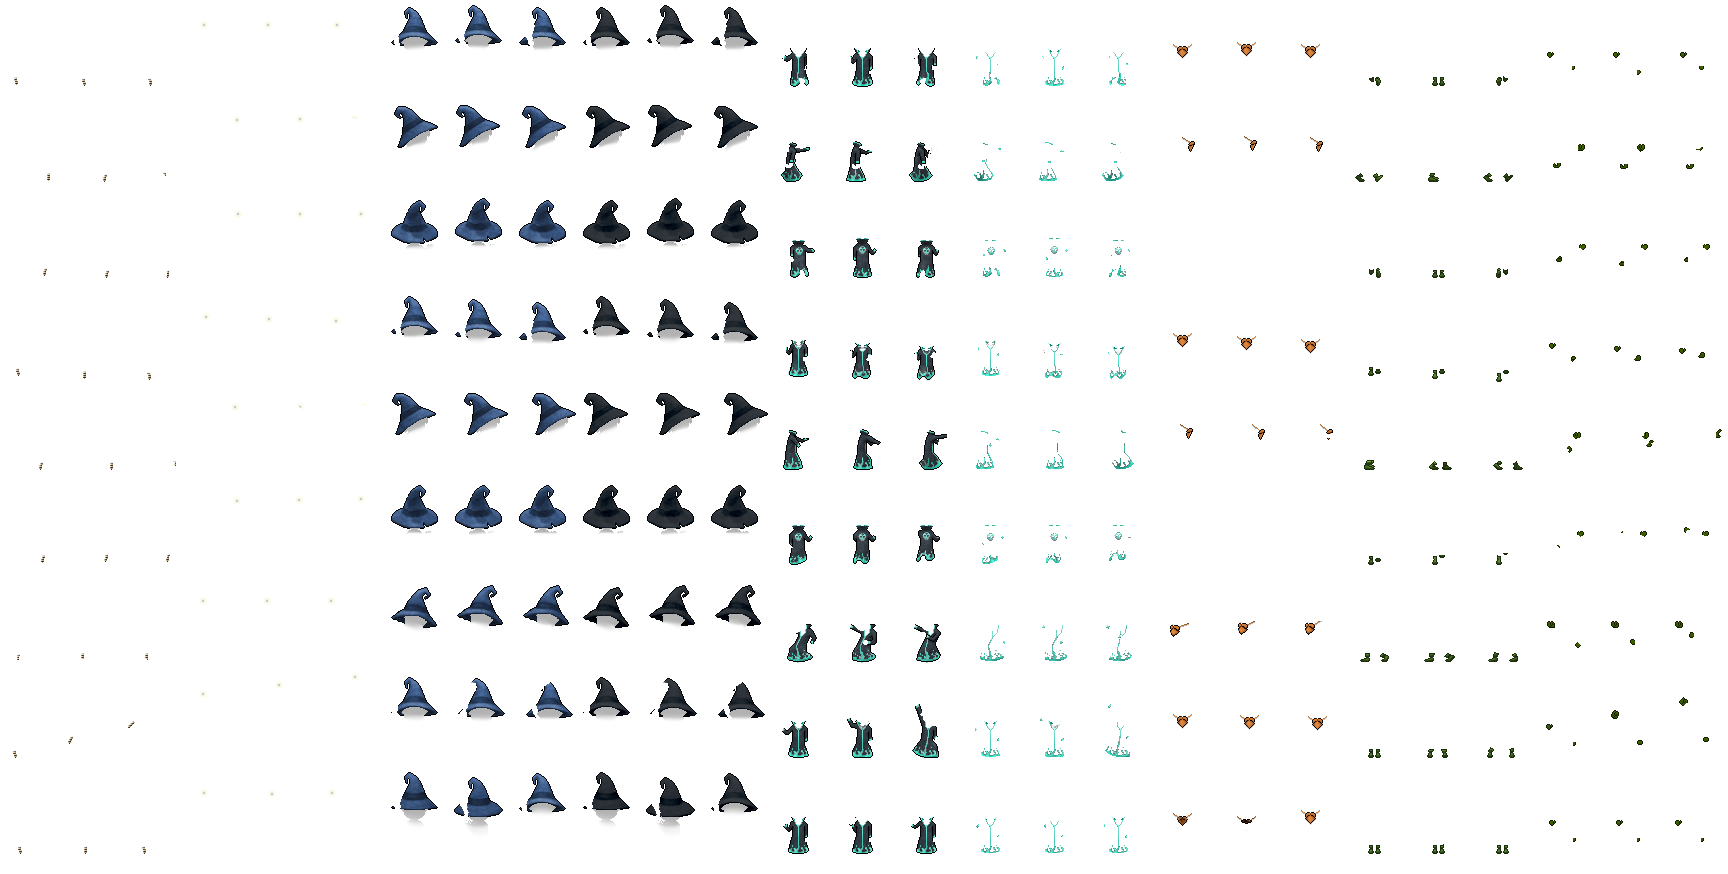
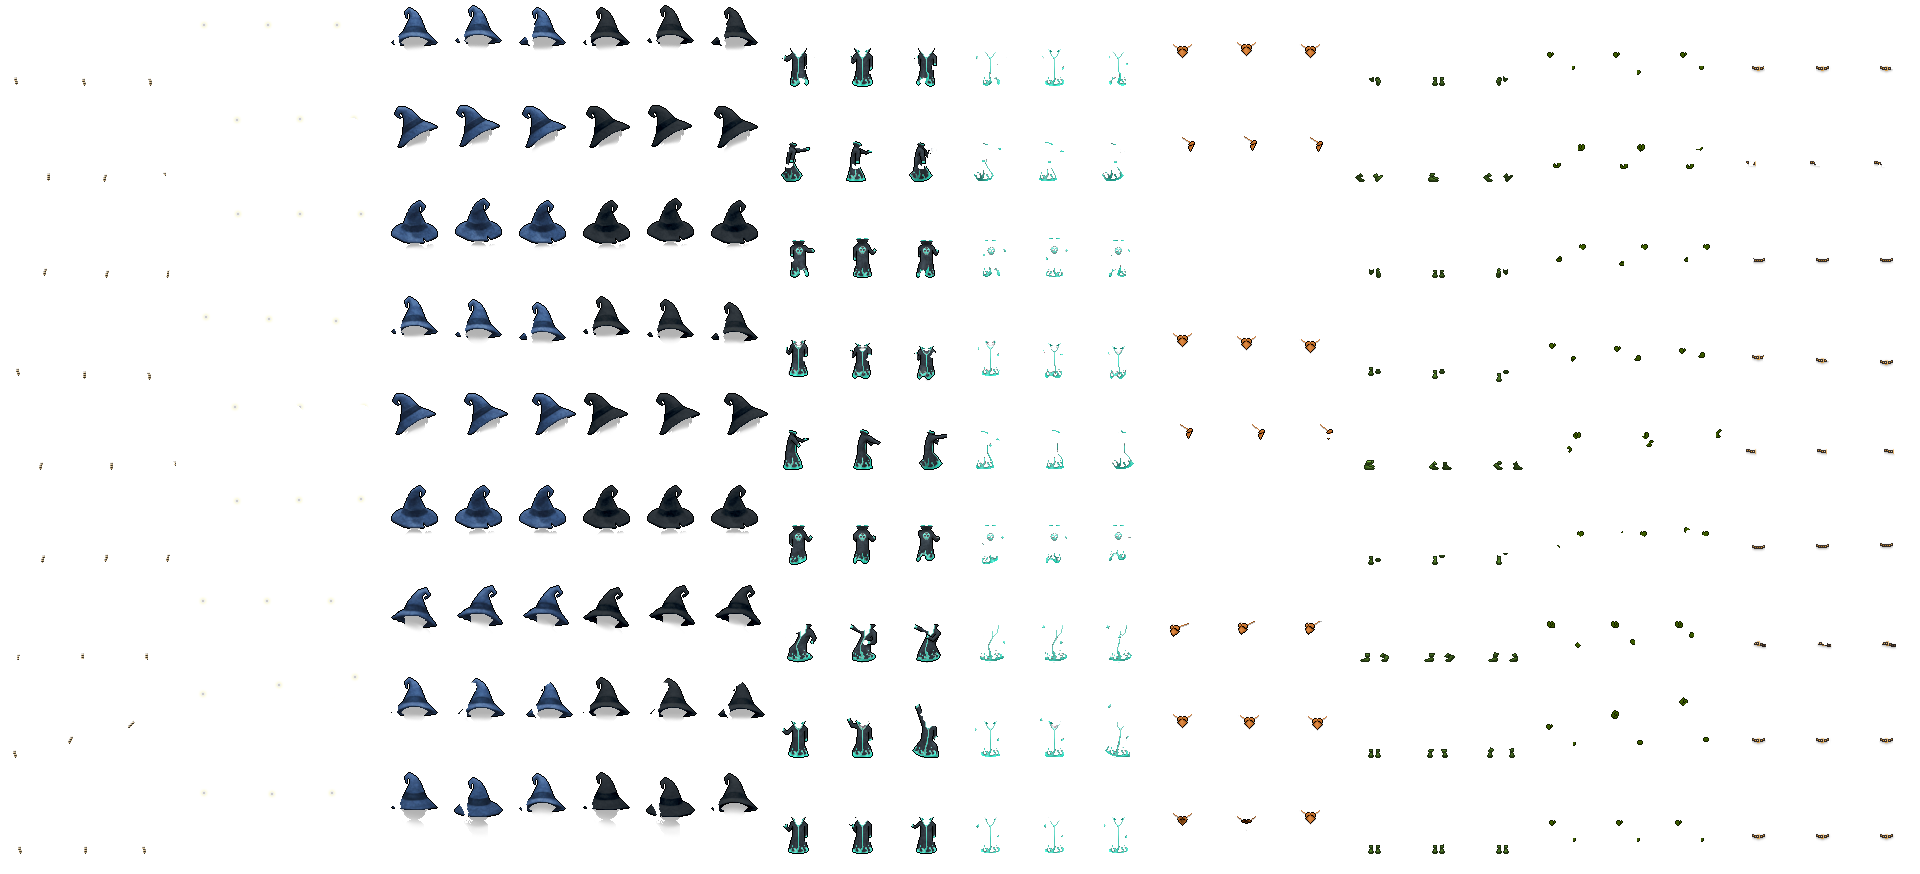
ADD 2 new items (upgrades)

diff --git a/src/PlayerEntity.cpp b/src/PlayerEntity.cpp
@@ -848,7 +848,17 @@ void PlayerEntity::renderPlayer(sf::RenderTarget* app)
     app->draw(sprite);
   }
 
-  if (equip[EQUIP_LEATHER_BELT])
+  if (equip[EQUIP_BELT_ADVANCED] && playerStatus != playerStatusDead)
+  {
+    sprite.setTexture(*ImageManager::getInstance().getImage(IMAGE_PLAYER_1));
+    if (isMirroring)
+      sprite.setTextureRect(sf::IntRect( (27 + frame) * width + width, spriteDy * height, -width, height));
+    else
+      sprite.setTextureRect(sf::IntRect( (27 + frame) * width, spriteDy * height, width, height));
+    app->draw(sprite);
+    sprite.setTexture(*ImageManager::getInstance().getImage(IMAGE_PLAYER_0));
+  }
+  else if (equip[EQUIP_LEATHER_BELT])
   {
     if (isMirroring)
       sprite.setTextureRect(sf::IntRect( (15 + frame) * width + width, spriteDy * height, -width, height));
@@ -874,7 +884,17 @@ void PlayerEntity::renderPlayer(sf::RenderTarget* app)
     app->draw(sprite);
   }
 
-  if (equip[EQUIP_REAR_SHOT])
+  if (equip[EQUIP_REAR_SHOT_ADVANCED])
+  {
+    sprite.setTexture(*ImageManager::getInstance().getImage(IMAGE_PLAYER_2));
+    if (isMirroring)
+      sprite.setTextureRect(sf::IntRect( (frame) * width + width, spriteDy * height, -width, height));
+    else
+      sprite.setTextureRect(sf::IntRect( (frame) * width, spriteDy * height, width, height));
+    app->draw(sprite);
+    sprite.setTexture(*ImageManager::getInstance().getImage(IMAGE_PLAYER_0));
+  }
+  else if (equip[EQUIP_REAR_SHOT])
   {
     sprite.setTexture(*ImageManager::getInstance().getImage(IMAGE_PLAYER_1));
     if (isMirroring)
@@ -1777,7 +1797,39 @@ void PlayerEntity::fire(int direction)
       }
     }
 
-    if (equip[EQUIP_REAR_SHOT])
+    if (equip[EQUIP_REAR_SHOT_ADVANCED])
+    {
+      float shootAngle = 0.165f;
+      float boltVelocity = fireVelocity * 0.75f;
+
+      BoltEntity* bolt1 = new BoltEntity(x, getBolPositionY(), boltLifeTime, ShotTypeStandard, 0);
+      bolt1->setDamages(fireDamages / 2);
+      bolt1->setFlying(isFairyTransmuted);
+      BoltEntity* bolt2 = new BoltEntity(x, getBolPositionY(), boltLifeTime, ShotTypeStandard, 0);
+      bolt2->setDamages(fireDamages / 2);
+      bolt2->setFlying(isFairyTransmuted);
+
+      switch (direction)
+      {
+      case 4:
+        bolt1->setVelocity(Vector2D(boltVelocity * cos(shootAngle), boltVelocity * sin(shootAngle)));
+        bolt2->setVelocity(Vector2D(boltVelocity * cos(shootAngle), -boltVelocity * sin(shootAngle)));
+        break;
+      case 6:
+        bolt1->setVelocity(Vector2D(-boltVelocity * cos(shootAngle), boltVelocity * sin(shootAngle)));
+        bolt2->setVelocity(Vector2D(-boltVelocity * cos(shootAngle), -boltVelocity * sin(shootAngle)));
+        break;
+      case 2:
+        bolt1->setVelocity(Vector2D(boltVelocity * sin(shootAngle), -boltVelocity * cos(shootAngle)));
+        bolt2->setVelocity(Vector2D(-boltVelocity * sin(shootAngle), -boltVelocity * cos(shootAngle)));
+        break;
+      case 8:
+        bolt1->setVelocity(Vector2D(boltVelocity * sin(shootAngle), boltVelocity * cos(shootAngle)));
+        bolt2->setVelocity(Vector2D(-boltVelocity * sin(shootAngle), boltVelocity * cos(shootAngle)));
+        break;
+      }
+    }
+    else if (equip[EQUIP_REAR_SHOT])
     {
       BoltEntity* bolt = new BoltEntity(x, getBolPositionY(), boltLifeTime, ShotTypeStandard, 0);
       bolt->setDamages(fireDamages / 2);
@@ -2283,8 +2335,11 @@ void PlayerEntity::computePlayer()
 
   for (int i = 0; i < NB_RESISTANCES; i++) resistance[i] = ResistanceStandard;
 
+  // gloves
   if (equip[EQUIP_GLOVES_ADVANCED]) fireDelayBonus -= 0.15f;
   else if (equip[EQUIP_DISPLACEMENT_GLOVES]) fireDelayBonus -= 0.10f;
+
+  // hat
   if (equip[EQUIP_HAT_ADVANCED])
   {
     fireDelayBonus -= 0.3f;
@@ -2293,11 +2348,16 @@ void PlayerEntity::computePlayer()
     resistance[ResistanceLightning] = (enumStateResistance)(resistance[ResistanceLightning] - 1);
     resistance[ResistanceFire] = (enumStateResistance)(resistance[ResistanceFire] - 1);
   }
-
   else if (equip[EQUIP_MAGICIAN_HAT]) fireDelayBonus -= 0.2f;
+
+  // belt
   if (equip[EQUIP_LEATHER_BELT]) fireDelayBonus -= 0.15f;
+
+  // boots
   if (equip[EQUIP_BOOTS_ADVANCED]) creatureSpeedBonus += 0.25f;
   else if (equip[EQUIP_LEATHER_BOOTS]) creatureSpeedBonus += 0.15f;
+
+  // multi-fire
   if (equip[EQUIP_BOOK_TRIPLE]) fireDelayBonus += 0.7f;
   else if (equip[EQUIP_BOOK_DUAL]) fireDelayBonus += 0.5f;
 

diff --git a/src/WitchBlastGame.cpp b/src/WitchBlastGame.cpp
@@ -294,6 +294,7 @@ WitchBlastGame::WitchBlastGame()
   const char *const images[] =
   {
     "media/player_0.png",      "media/player_1.png",
+    "media/player_2.png",
     "media/bolt.png",          "media/tiles.png",
     "media/rat.png",           "media/minimap.png",
     "media/map_background.png",
@@ -6485,7 +6486,17 @@ void WitchBlastGame::renderPlayer(float x, float y,
     app->draw(sprite);
   }
 
-  if (equip[EQUIP_LEATHER_BELT])
+  if (equip[EQUIP_BELT_ADVANCED])
+  {
+    sprite.setTexture(*ImageManager::getInstance().getImage(IMAGE_PLAYER_1));
+    if (isMirroring)
+      sprite.setTextureRect(sf::IntRect( (27 + frame) * width + width, spriteDy * height, -width, height));
+    else
+      sprite.setTextureRect(sf::IntRect( (27 + frame) * width, spriteDy * height, width, height));
+    app->draw(sprite);
+    sprite.setTexture(*ImageManager::getInstance().getImage(IMAGE_PLAYER_0));
+  }
+  else if (equip[EQUIP_LEATHER_BELT])
   {
     if (isMirroring)
       sprite.setTextureRect(sf::IntRect( (15 + frame) * width + width, spriteDy * height, -width, height));
@@ -6533,7 +6544,17 @@ void WitchBlastGame::renderPlayer(float x, float y,
     app->draw(sprite);
   }
 
-  if (equip[EQUIP_REAR_SHOT])
+  if (equip[EQUIP_REAR_SHOT_ADVANCED])
+  {
+    sprite.setTexture(*ImageManager::getInstance().getImage(IMAGE_PLAYER_2));
+    if (isMirroring)
+      sprite.setTextureRect(sf::IntRect( (frame) * width + width, spriteDy * height, -width, height));
+    else
+      sprite.setTextureRect(sf::IntRect( (frame) * width, spriteDy * height, width, height));
+    app->draw(sprite);
+    sprite.setTexture(*ImageManager::getInstance().getImage(IMAGE_PLAYER_0));
+  }
+  else if (equip[EQUIP_REAR_SHOT])
   {
     sprite.setTexture(*ImageManager::getInstance().getImage(IMAGE_PLAYER_1));
     if (isMirroring)

diff --git a/src/Items.h b/src/Items.h
@@ -174,6 +174,8 @@ enum enumItemType
   ItemSpellTime,
   ItemSideShots,
   ItemSpellLightning,
+  ItemBeltAdvanced,
+  ItemRearShotAdvanced,
 
   NUMBER_ITEMS
 };
@@ -605,6 +607,14 @@ const itemStuct items[NUMBER_ITEMS] =
     ItemSpellLightning, "item_spell_lightning", "item_spell_lightning_desc",
     60, true, FamiliarNone, false, false, true, 1, RarityCommon, false, -1, ShotTypeStandard, SpellLightning, false
   },
+  {
+    ItemBeltAdvanced, "item_belt_advanced", "item_belt_advanced_desc",
+    35, true, FamiliarNone, true, true, true, 2, RarityUncommon, false, ItemLeatherBelt, ShotTypeStandard, SpellNone, false
+  },
+  {
+    ItemRearShotAdvanced, "item_rear_shot_advanced", "item_rear_shot_advanced_desc",
+    40, true, FamiliarNone, true, true, true, 2, RarityUncommon, false, ItemRearShot, ShotTypeStandard, SpellNone, false
+  },
 };
 
 /** Item equipment type enum
@@ -679,6 +689,8 @@ enum item_equip_enum {
   EQUIP_SPELL_TIME,
   EQUIP_SIDE_SHOTS,
   EQUIP_SPELL_LIGHTNING,
+  EQUIP_BELT_ADVANCED,
+  EQUIP_REAR_SHOT_ADVANCED,
 
   NUMBER_EQUIP_ITEMS
   };
@@ -695,6 +707,7 @@ const std::vector<item_equip_enum> sortedEquipement =
   EQUIP_DISPLACEMENT_GLOVES,
   EQUIP_GLOVES_ADVANCED,
   EQUIP_LEATHER_BELT,
+  EQUIP_BELT_ADVANCED,
   EQUIP_BAG,
   EQUIP_RAGE_AMULET,
   EQUIP_CRITICAL,
@@ -710,6 +723,7 @@ const std::vector<item_equip_enum> sortedEquipement =
   EQUIP_MAHOGANY_STAFF,
   EQUIP_BLOOD_SNAKE,
   EQUIP_REAR_SHOT,
+  EQUIP_REAR_SHOT_ADVANCED,
   EQUIP_SULFUR,
   EQUIP_GEM_ICE,
   EQUIP_GEM_STONE,

diff --git a/src/Achievements.h b/src/Achievements.h
@@ -102,13 +102,13 @@ const achievementStuct achievements[NB_ACHIEVEMENTS] =
   { AchievementWin,         "achiev_win",           UnlockFunctionality,  FunctionalityAllAchievements },
 
   { AchievementFairies,     "achiev_fairies",       UnlockItem,           ItemGlovesAdvanced },
-  { AchievementGhostbuster, "achiev_ghost",         UnlockFunctionality,  FunctionalityNothing },
+  { AchievementGhostbuster, "achiev_ghost",         UnlockItem,           ItemRearShotAdvanced },
   { AchievementNoob,        "achiev_noob",          UnlockFunctionality,  FunctionalityNothing },
   { AchievementNoDamage,    "achiev_no_damage",     UnlockItem,           ItemSideShots },
   { AchievementNoDamage2,   "achiev_no_damage2",    UnlockItem,           ItemBag },
   { AchievementNoDamage3,   "achiev_no_damage3",    UnlockFunctionality,  FunctionalityNothing },
   { AchievementApostate,    "achiev_apostate",      UnlockItem,           ItemSpellLightning },
-  { AchievementFanatic,     "achiev_fanatic",       UnlockFunctionality,  FunctionalityNothing },
+  { AchievementFanatic,     "achiev_fanatic",       UnlockItem,           ItemBeltAdvanced },
 };
 
 const std::vector<enumAchievementType> sortedAchievements =

diff --git a/src/FairyEntity.cpp b/src/FairyEntity.cpp
@@ -7,6 +7,8 @@
 #include "sfml_game/MyTools.h"
 #include <iostream>
 
+float const fireDelayAdvancedMult = 0.8f;
+
 FairyEntity::FairyEntity(float x, float y, enumFamiliar fairyType) : SpriteEntity (ImageManager::getInstance().getImage(IMAGE_FAIRY), x, y, 48, 72)
 {
   this->x = x;
@@ -180,7 +182,8 @@ void FairyEntity::fire(int dir)
       SoundManager::getInstance().playSound(SOUND_BLAST_STANDARD);
       break;
     }
-    fireDelay = fairyFireDelay;
+
+    fireDelay = game().getPlayer()->isEquiped(EQUIP_BELT_ADVANCED) ? fairyFireDelay * fireDelayAdvancedMult : fairyFireDelay;
 
     float velx = 0.0f;
     float vely = 0.0f;
@@ -259,7 +262,7 @@ void FairyEntity::tryToFire()
         bolt->setVelocity(Vector2D(x, y).vectorTo(target, FAIRY_BOLT_VELOCITY));
 
         SoundManager::getInstance().playSound(SOUND_BLAST_STANDARD);
-        fireDelay = fairyFireDelay;
+        fireDelay = game().getPlayer()->isEquiped(EQUIP_BELT_ADVANCED) ? fairyFireDelay * fireDelayAdvancedMult : fairyFireDelay;
 
         if ((target.x - x) * (target.x - x) > (target.y - y) *(target.y - y))
         {

diff --git a/src/ItemEntity.cpp b/src/ItemEntity.cpp
@@ -215,7 +215,7 @@ void ItemEntity::render(sf::RenderTarget* app)
   }
   else
   {
-    sprite.setTextureRect(sf::IntRect(9 * width, 6 * height, width, height));
+    sprite.setTextureRect(sf::IntRect(9 * width, 7 * height, width, height));
     app->draw(sprite);
   }
 

diff --git a/src/Constants.h b/src/Constants.h
@@ -85,6 +85,7 @@ const float KeyRoomFXDelay = 2.0f;
 enum enum_images {
   IMAGE_PLAYER_0,
   IMAGE_PLAYER_1,
+  IMAGE_PLAYER_2,
   IMAGE_BOLT,
   IMAGE_TILES,
   IMAGE_RAT,
